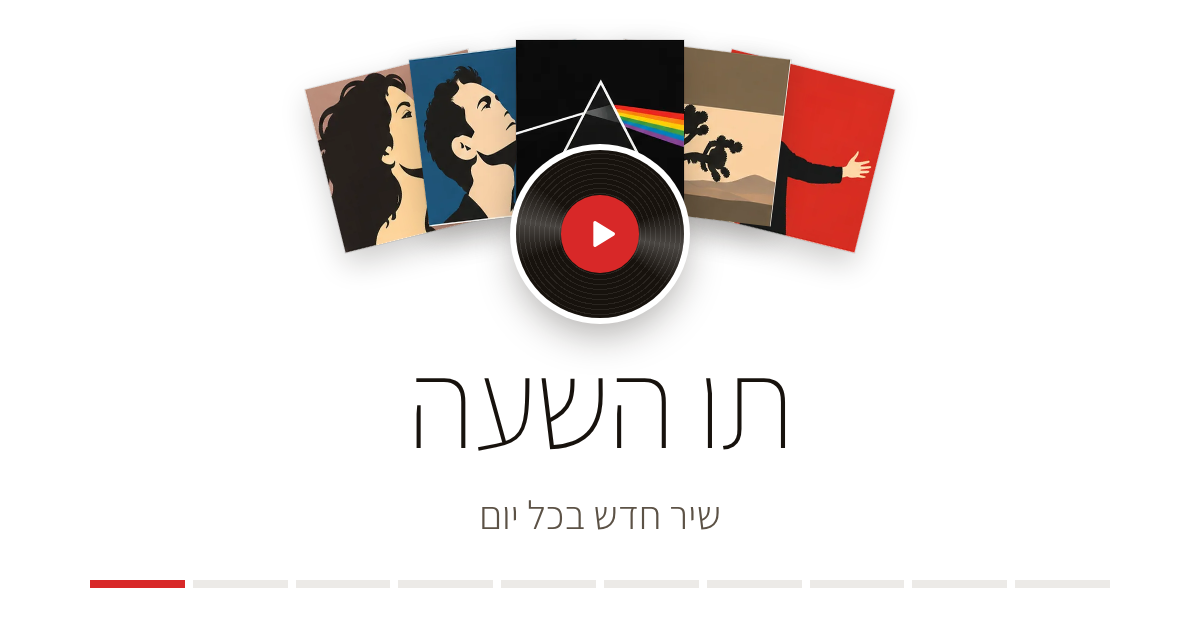
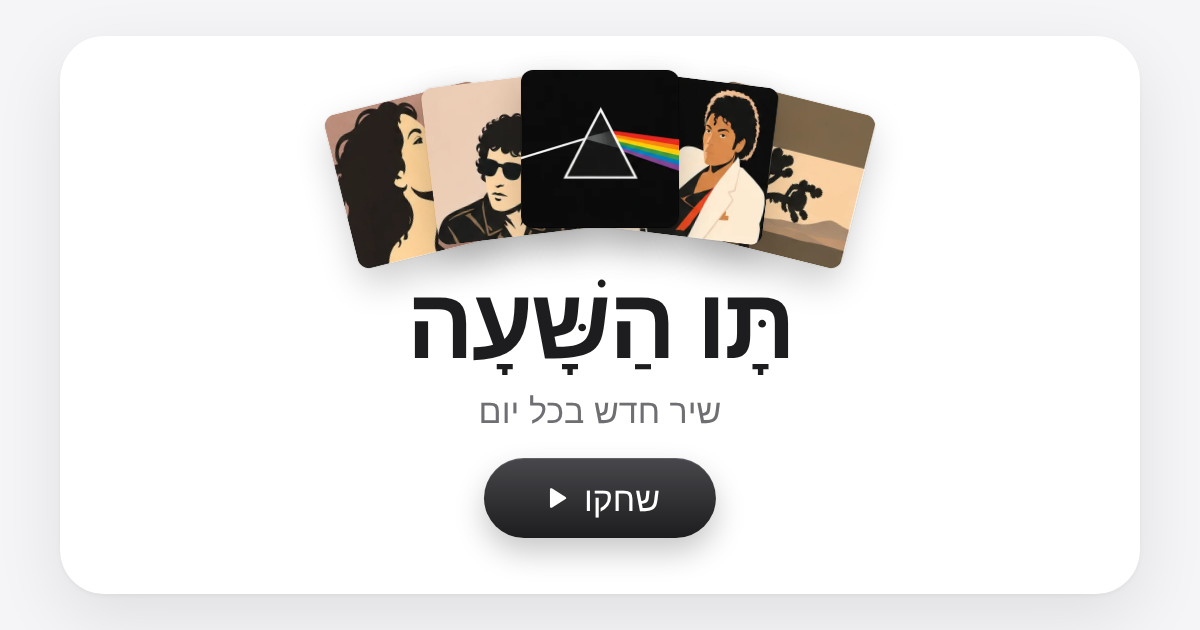
No cover on the game screen, the game card centred, a new link preview image
- The mystery cover is gone from the game screen (markup, styles, and the day's
  hue that only it used). The stage now starts 24px under the back button with
  the status line; the card sits in the middle of the screen, as the home
  screen's does, and goes to the top only while typing.
- og.png redrawn in the current design: a white card on the light-grey page with
  the fan of album covers, the bold title, "שיר חדש בכל יום" and the black "שחקו"
  pill; no record. The meta tag asks for og.png?v=9 so apps fetch the new one,
  and its alt text says what is in it now.

Claude-Session: https://claude.ai/code/session_01AoHjZZDDJWhZrEPR356cAG

Changed region(s): [[0.2467, 0.0603, 0.7708, 0.9048], [0.0617, 0.9048, 0.925, 0.9651]]

diff --git a/index.html b/index.html
@@ -13,10 +13,10 @@
 <meta property="og:description" content="שיר חדש בכל יום. מתחילים עם חצי שנייה מתחילת השיר, וכל דילוג או ניחוש שגוי מוסיפים עוד חצי שנייה.">
 <meta property="og:url" content="https://whats-the-song.vercel.app/">
 <meta property="og:locale" content="he_IL">
-<meta property="og:image" content="https://whats-the-song.vercel.app/og.png?v=8">
+<meta property="og:image" content="https://whats-the-song.vercel.app/og.png?v=9">
 <meta property="og:image:width" content="1200">
 <meta property="og:image:height" content="630">
-<meta property="og:image:alt" content="תו השעה: מניפת עטיפות אלבומים מאוירות ותקליט עם כפתור נגינה, שיר חדש בכל יום">
+<meta property="og:image:alt" content="תו השעה: מניפת עטיפות אלבומים מאוירות, הכותרת וכפתור שחקו, שיר חדש בכל יום">
 <meta name="twitter:card" content="summary_large_image">
 <style>
 
@@ -24,14 +24,13 @@
      text, grey secondary text, the device's own font in fine weights (titles 600, labels 500, text 400). The main buttons
      are black (--btn) with white text. One blue accent for state, not for buttons: --accent for the progress, a right
      answer and focus (white on it 4.7:1), --accent-ink for blue link text (5.6:1 on white). Small rounded "app icon" tiles with
-     gradients mark the stats and the links. The mystery cover keeps the day's colours (--h, set by the main script).
+     gradients mark the stats and the links.
      State is still shown with fill, icons and shape as well as colour. Light only.
      Spacing: one scale on a 4px base, --sp-1 4px to --sp-7 48px. Small steps inside a component, middle steps between
      related items, large steps between groups and around the card. Control heights (40/44/50/56px) are sizes, not
      spacing. */
   :root {
     color-scheme: light;
-    --h: 330;
     --page: #f5f5f7;
     --paper: #ffffff;
     --ink: #1d1d1f;
@@ -52,7 +51,6 @@
     --r-s: 8px; --r-m: 12px; --r-l: 18px; --r-card: 28px; --pill: 999px;
     --shadow-card: 0 1px 2px rgba(var(--shade), .04), 0 12px 40px rgba(var(--shade), .08);
     --shadow-tile: 0 1px 2px rgba(var(--shade), .04), 0 4px 16px rgba(var(--shade), .07);
-    --art: min(42vw, 22vh, 190px);                  /* the mystery cover on the game screen */
   }
   * { box-sizing: border-box; }
   html { -webkit-text-size-adjust: 100%; }
@@ -114,36 +112,10 @@
   .t-flame svg { fill: currentColor; }
   .t-trophy svg, .t-cal svg, .t-bell svg { fill: none; stroke: currentColor; stroke-width: 2; stroke-linecap: round; stroke-linejoin: round; }
 
-  /* player stage: a mystery cover, the status and the progress line under it, then the controls */
-  .stage { margin-top: var(--sp-3); display: flex; flex-direction: column; align-items: center; gap: var(--sp-3); }
+  /* player stage: the status and the progress line, then the controls */
+  .stage { margin-top: var(--sp-5); display: flex; flex-direction: column; align-items: center; gap: var(--sp-3); }
   .stage[hidden] { display: none; }
-  /* the cover of a song nobody has named yet, shaped like an app icon: blurred colours of the day's hue and a question
-     mark. Like a now-playing screen it is a little smaller while paused and grows while the clip plays. */
-  .art {
-    position: relative; width: var(--art); aspect-ratio: 1; border-radius: 22%; overflow: hidden;
-    background:
-      radial-gradient(circle at 28% 24%, hsl(var(--h) 90% 66%) 0, transparent 58%),
-      radial-gradient(circle at 78% 72%, hsl(calc(var(--h) + 55) 85% 58%) 0, transparent 56%),
-      radial-gradient(circle at 76% 18%, hsl(calc(var(--h) + 150) 75% 62%) 0, transparent 50%),
-      radial-gradient(circle at 20% 82%, hsl(calc(var(--h) + 230) 70% 52%) 0, transparent 55%),
-      linear-gradient(135deg, hsl(calc(var(--h) + 200) 55% 34%), hsl(calc(var(--h) + 300) 60% 24%));
-    background-size: 160% 160%; background-position: 30% 30%;
-    box-shadow: 0 16px 36px rgba(var(--shade), .2), inset 0 1px 0 rgba(255, 255, 255, .35);
-    transform: scale(.92); transform-origin: 50% 100%;   /* paused it shrinks towards the status under it, so that gap stays true */
-    transition: transform .45s cubic-bezier(.3, 1.4, .5, 1), box-shadow .45s ease;
-  }
-  .art::after { content: ""; position: absolute; inset: 0; background: linear-gradient(160deg, rgba(255, 255, 255, .3), transparent 45%); }   /* a soft sheen */
-  .art .q {
-    position: absolute; inset: 0; display: grid; place-items: center;
-    color: rgba(255, 255, 255, .8); font-size: calc(var(--art) * .42); font-weight: 600; line-height: 1;
-    text-shadow: 0 6px 24px rgba(var(--shade), .25);
-  }
-  .stage:has(.play[data-state="playing"]) .art {
-    transform: scale(1); box-shadow: 0 22px 48px rgba(var(--shade), .26), inset 0 1px 0 rgba(255, 255, 255, .35);
-    animation: drift 5s ease-in-out infinite alternate;
-  }
-  @keyframes drift { to { background-position: 70% 65%; } }
-  .tl-label { text-align: center; font-size: 15px; font-weight: 500; }   /* under the cover, like a song's title */
+  .tl-label { text-align: center; font-size: 15px; font-weight: 500; }   /* over the progress line it describes */
 
   /* the play button: a round black button with a white icon */
   .play {
@@ -220,13 +192,12 @@
   @media (hover: hover) { .list li:hover { background: var(--soft); } }
   .list li.status { color: var(--muted); font-size: 14px; cursor: default; }
   @media (hover: hover) { .list li.status:hover { background: none; } }
-  /* typing mode: while the guess field has focus, the cover steps aside and the play button sits small beside the line,
+  /* typing mode: while the guess field has focus, the play button sits small beside the line,
      with the back button gone, so the suggestions and the guess button fit above the keyboard without scrolling. The
      suggestions then sit in the page, under the field, instead of floating over what is below it. */
   .app.typing .bar { display: none; }
   .app.typing { margin-top: 0; }                   /* at the top, not centred: the suggestions stay above the keyboard */
   .app.typing .stage { margin-top: var(--sp-3); flex-direction: row; align-items: center; gap: var(--sp-4); width: 100%; }
-  .app.typing .art { display: none; }
   .app.typing .play { width: 44px; height: 44px; flex: none; order: -1; box-shadow: var(--btn-edge); }
   .app.typing .play svg { width: 18px; height: 18px; }
   .app.typing .play.invite::after { display: none; }   /* no ring while typing: it would run off the edge */
@@ -517,7 +488,6 @@
   </div>
 
   <section class="stage" id="stage" data-s="game" aria-label="נגן">
-    <div class="art" id="art" aria-hidden="true"><span class="q">?</span></div>
     <div class="tl-label" id="tlLabel"></div>
     <div class="timeline-wrap" dir="ltr">
       <div class="timeline" id="timeline" aria-hidden="true">
@@ -682,7 +652,6 @@
   const asked = parseInt(params.get('day'), 10);    // ?day=2 plays an earlier day, saved like any other; later days are not open yet
   const dayNo = previewMode ? (asked || today) : asked >= 1 && asked <= today ? asked : today;
   const isToday = dayNo === today;
-  document.documentElement.style.setProperty('--h', (dayNo * 137) % 360);   // the day's hue: the wash behind the glass, the mystery cover, the rings
 
   // ---------- events (Vercel Web Analytics) ----------
   // Small anonymous events that say how the game is used. Only numbers, words and true/false are sent: never what someone
